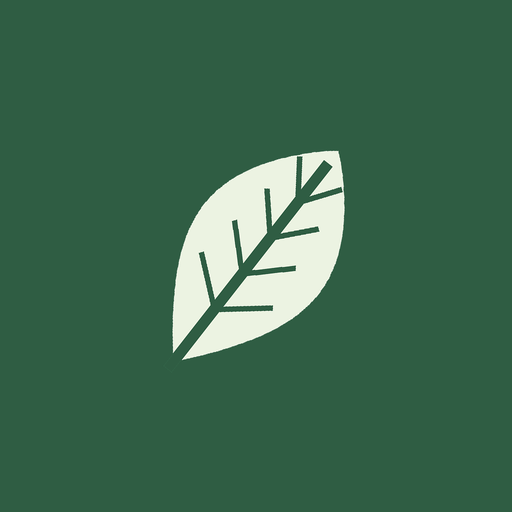
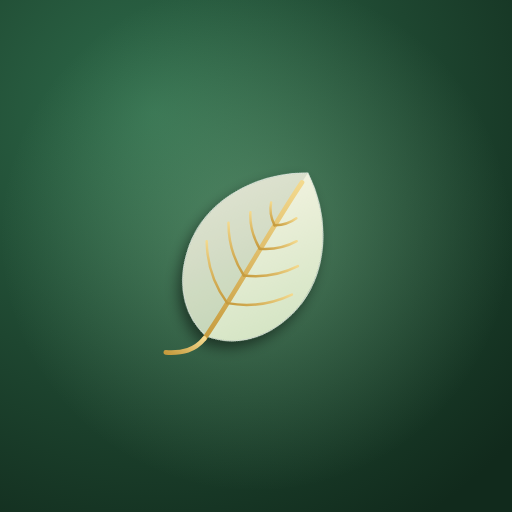
Premium ikonka va ilova ochilishida 'ikonka chizilishi' animatsiyasi
Claude-Session: https://claude.ai/code/session_01Hn56jryXW9QDXa4QCCKqRz

diff --git a/index.html b/index.html
@@ -16,6 +16,66 @@
 <link rel="stylesheet" href="css/app.css">
 </head>
 <body>
+<!--SPLASH-->
+<div id="splash" aria-hidden="true">
+<style>
+#splash{position:fixed;inset:0;z-index:9999;display:flex;flex-direction:column;align-items:center;justify-content:center;gap:26px;background:#1E4630;color:#F5F1E6;transition:opacity .55s ease,visibility .55s;overflow:hidden}
+#splash.hide{opacity:0;visibility:hidden}
+#splash::before{content:"";position:absolute;inset:-20%;background:radial-gradient(circle at 50% 42%,rgba(159,214,168,.30),rgba(159,214,168,0) 55%);opacity:0;animation:sGlow 1.6s ease .15s forwards}
+#splash svg{width:min(54vw,230px);height:auto;position:relative;overflow:visible}
+#splash .tile{transform-origin:50% 50%;opacity:0;animation:sTile .7s cubic-bezier(.2,.8,.2,1) forwards}
+#splash .outline{fill:none;stroke:#EAF3DD;stroke-width:6;stroke-linecap:round;stroke-linejoin:round;stroke-dasharray:1;stroke-dashoffset:1;animation:sDraw 1.05s cubic-bezier(.5,0,.2,1) .35s forwards}
+#splash .fill{opacity:0;animation:sFade .7s ease 1.15s forwards}
+#splash .leaf{transform-origin:512px 700px;animation:sGrow 1.5s cubic-bezier(.2,.8,.2,1) .3s both}
+#splash .gold{fill:none;stroke:url(#gds);stroke-linecap:round;stroke-dasharray:1;stroke-dashoffset:1}
+#splash .mid{stroke-width:15;animation:sDraw .8s ease 1.2s forwards}
+#splash .vein{stroke-width:8;stroke-dasharray:1;stroke-dashoffset:1;animation:sDraw .55s ease calc(1.55s + var(--i)*.07s) forwards}
+#splash .shine{opacity:0;animation:sShine 1.1s ease 2.0s}
+#splash .word{text-align:center;opacity:0;transform:translateY(10px);animation:sUp .7s cubic-bezier(.2,.8,.2,1) 1.9s forwards}
+#splash .word b{display:block;font:600 clamp(1.5rem,7vw,2rem)/1.1 Fraunces,Georgia,serif;letter-spacing:.01em}
+#splash .word span{display:block;margin-top:8px;font:500 .72rem/1 Inter,system-ui,sans-serif;letter-spacing:.22em;text-transform:uppercase;color:#A9D3AE}
+@keyframes sTile{from{opacity:0;transform:scale(.86)}to{opacity:1;transform:scale(1)}}
+@keyframes sDraw{to{stroke-dashoffset:0}}
+@keyframes sFade{to{opacity:1}}
+@keyframes sGrow{from{transform:scale(.82) rotate(-6deg)}to{transform:scale(1) rotate(0)}}
+@keyframes sGlow{to{opacity:1}}
+@keyframes sUp{to{opacity:1;transform:none}}
+@keyframes sShine{0%{opacity:0;transform:translateX(-120px)}40%{opacity:.55}100%{opacity:0;transform:translateX(160px)}}
+@media (prefers-reduced-motion:reduce){#splash *,#splash::before{animation-duration:.01s!important;animation-delay:0s!important}}
+</style>
+<svg viewBox="0 0 1024 1024" role="img">
+<defs>
+<radialGradient id="bgs" cx="30%" cy="22%" r="95%"><stop offset="0" stop-color="#2E6B4A"/><stop offset=".55" stop-color="#1E4630"/><stop offset="1" stop-color="#112A1C"/></radialGradient>
+<radialGradient id="glows" cx="50%" cy="46%" r="50%"><stop offset="0" stop-color="#9FD6A8" stop-opacity=".34"/><stop offset="1" stop-color="#9FD6A8" stop-opacity="0"/></radialGradient>
+<linearGradient id="lfs" x1="0" y1="0" x2="1" y2="1"><stop offset="0" stop-color="#FBF7E8"/><stop offset="1" stop-color="#CFE2BF"/></linearGradient>
+<linearGradient id="gds" x1="0" y1="1" x2="0" y2="0"><stop offset="0" stop-color="#C69B3E"/><stop offset="1" stop-color="#F3D98E"/></linearGradient>
+<filter id="shs" x="-30%" y="-30%" width="160%" height="170%"><feGaussianBlur in="SourceAlpha" stdDeviation="22"/><feOffset dy="26"/><feComponentTransfer><feFuncA type="linear" slope=".5"/></feComponentTransfer><feMerge><feMergeNode/><feMergeNode in="SourceGraphic"/></feMerge></filter>
+</defs>
+<clipPath id="clipL"><path d="M512 196 C668 292 752 466 706 622 C674 738 594 802 512 816 C430 802 350 738 318 622 C272 466 356 292 512 196 Z"/></clipPath>
+<rect class="tile" x="32" y="32" width="960" height="960" rx="224" fill="url(#bgs)"/>
+<g transform="translate(512 512) scale(.8) rotate(32) translate(-512 -512)" class="leaf-wrap"><g class="leaf">
+<g class="fill"><g filter="url(#shs)"><path d="M512 196 C668 292 752 466 706 622 C674 738 594 802 512 816 C430 802 350 738 318 622 C272 466 356 292 512 196 Z" fill="url(#lfs)"/></g><path d="M512 196 C356 292 272 466 318 622 C350 738 430 802 512 816 C506 640 508 380 512 196 Z" fill="#1E4630" opacity=".10"/></g>
+<path pathLength="1" class="outline" d="M512 196 C668 292 752 466 706 622 C674 738 594 802 512 816 C430 802 350 738 318 622 C272 466 356 292 512 196 Z"/>
+<path pathLength="1" class="gold mid" d="M512 826 C520 680 506 430 512 232"/><path pathLength="1" class="gold mid" d="M512 826 C506 874 478 904 430 930"/>
+<g class="gold-veins"><path pathLength="1" class="gold vein" style="--i:0" d="M514 690 C580 664 636 618 676 556"/><path pathLength="1" class="gold vein" style="--i:1" d="M512 586 C568 560 612 520 644 468"/><path pathLength="1" class="gold vein" style="--i:2" d="M510 486 C548 466 578 438 598 402"/><path pathLength="1" class="gold vein" style="--i:3" d="M510 396 C530 384 548 366 558 340"/><path pathLength="1" class="gold vein" style="--i:4" d="M514 690 C448 664 392 618 352 556"/><path pathLength="1" class="gold vein" style="--i:5" d="M512 586 C456 560 412 520 380 468"/><path pathLength="1" class="gold vein" style="--i:6" d="M510 486 C472 466 442 438 422 402"/><path pathLength="1" class="gold vein" style="--i:7" d="M510 396 C490 384 472 366 462 340"/></g>
+<g clip-path="url(#clipL)"><rect class="shine" x="380" y="150" width="60" height="720" fill="#fff" opacity=".0" transform="skewX(-18)"/></g>
+</g></g>
+</svg>
+<div class="word"><b>Botanika Atlasi</b><span>6-sinf · o‘simlik oilalari</span></div>
+<script>
+(function(){
+  var s=document.getElementById("splash"), seen=false, force=/[?&]splash\b/.test(location.search);
+  try{ seen=sessionStorage.getItem("splash")==="1"; }catch(e){}
+  var standalone=window.IS_APP||(window.matchMedia&&matchMedia("(display-mode: standalone)").matches)||navigator.standalone;
+  if(!(force||(standalone&&!seen))){ s.remove(); return; }
+  try{ sessionStorage.setItem("splash","1"); }catch(e){}
+  function done(){ s.classList.add("hide"); setTimeout(function(){ s.remove(); }, 700); }
+  s.style.pointerEvents="auto"; s.addEventListener("click", done);
+  setTimeout(done, matchMedia("(prefers-reduced-motion: reduce)").matches ? 500 : 3300);
+})();
+</script>
+</div>
+<!--/SPLASH-->
 <section class="hero">
   <svg class="sprig" viewBox="0 0 400 420" aria-hidden="true">
     <g fill="none" stroke="#2F5D43" stroke-width="2.2" stroke-linecap="round">

diff --git a/sw.js b/sw.js
@@ -1,5 +1,5 @@
 // Avtomatik yaratilgan (tools/make-sw.py). Qo'lda o'zgartirmang.
-const VERSION = "02de9e5200", CACHE = "atlas-" + VERSION;
+const VERSION = "1072361cce", CACHE = "atlas-" + VERSION;
 const CORE = [
  "./",
  "css/app.css",
@@ -21,6 +21,7 @@ const CORE = [
  "icons/apple-touch-icon.png",
  "icons/icon-192.png",
  "icons/icon-512.png",
+ "icons/icon.svg",
  "icons/maskable-512.png",
  "index.html",
  "js/app.js",

diff --git a/tools/make-brand.py b/tools/make-brand.py
@@ -1,0 +1,128 @@
+#!/usr/bin/env python3
+"""Ikonka (SVG) va ilova ochilish animatsiyasini (splash) bitta geometriyadan yaratadi.
+Natija: icons/icon.svg, android-app/assets/*.svg, va index.html ichidagi <!--SPLASH--> bloki.
+PNG ga aylantirish: node tools/render-brand.js (Playwright kerak)."""
+import os, re
+R = os.path.dirname(os.path.dirname(os.path.abspath(__file__)))
+
+BG1, BG2, BG3 = "#2E6B4A", "#1E4630", "#112A1C"      # zumrad fon
+CREAM1, CREAM2 = "#FBF7E8", "#CFE2BF"                 # barg
+GOLD1, GOLD2 = "#F3D98E", "#C69B3E"                   # tomirlar
+
+LEAF = "M512 196 C668 292 752 466 706 622 C674 738 594 802 512 816 C430 802 350 738 318 622 C272 466 356 292 512 196 Z"
+LEFT = "M512 196 C356 292 272 466 318 622 C350 738 430 802 512 816 C506 640 508 380 512 196 Z"
+MID = "M512 826 C520 680 506 430 512 232"
+VEINS_R = ["M514 690 C580 664 636 618 676 556", "M512 586 C568 560 612 520 644 468", "M510 486 C548 466 578 438 598 402", "M510 396 C530 384 548 366 558 340"]
+VEINS_L = ["M514 690 C448 664 392 618 352 556", "M512 586 C456 560 412 520 380 468", "M510 486 C472 466 442 438 422 402", "M510 396 C490 384 472 366 462 340"]
+STEM = "M512 826 C506 874 478 904 430 930"
+TILT = 32
+
+
+def defs(uid):
+    return f'''<defs>
+<radialGradient id="bg{uid}" cx="30%" cy="22%" r="95%"><stop offset="0" stop-color="{BG1}"/><stop offset=".55" stop-color="{BG2}"/><stop offset="1" stop-color="{BG3}"/></radialGradient>
+<radialGradient id="glow{uid}" cx="50%" cy="46%" r="50%"><stop offset="0" stop-color="#9FD6A8" stop-opacity=".34"/><stop offset="1" stop-color="#9FD6A8" stop-opacity="0"/></radialGradient>
+<linearGradient id="lf{uid}" x1="0" y1="0" x2="1" y2="1"><stop offset="0" stop-color="{CREAM1}"/><stop offset="1" stop-color="{CREAM2}"/></linearGradient>
+<linearGradient id="gd{uid}" x1="0" y1="1" x2="0" y2="0"><stop offset="0" stop-color="{GOLD2}"/><stop offset="1" stop-color="{GOLD1}"/></linearGradient>
+<filter id="sh{uid}" x="-30%" y="-30%" width="160%" height="170%"><feGaussianBlur in="SourceAlpha" stdDeviation="22"/><feOffset dy="26"/><feComponentTransfer><feFuncA type="linear" slope=".5"/></feComponentTransfer><feMerge><feMergeNode/><feMergeNode in="SourceGraphic"/></feMerge></filter>
+</defs>'''
+
+
+def leaf_group(uid, scale=1.0, shadow=True):
+    veins = "".join(f'<path d="{d}"/>' for d in VEINS_R + VEINS_L)
+    f = f' filter="url(#sh{uid})"' if shadow else ""
+    return f'''<g transform="translate(512 512) scale({scale}) rotate({TILT}) translate(-512 -512)">
+<g{f}><path d="{LEAF}" fill="url(#lf{uid})"/></g>
+<path d="{LEFT}" fill="#1E4630" opacity=".10"/>
+<path d="{LEAF}" fill="none" stroke="#fff" stroke-opacity=".55" stroke-width="3"/>
+<g fill="none" stroke="url(#gd{uid})" stroke-linecap="round"><path d="{MID}" stroke-width="15"/><path d="{STEM}" stroke-width="15"/><g stroke-width="8">{veins}</g></g>
+</g>'''
+
+
+def svg(kind):
+    """kind: full (to'liq ikonka), fg (adaptive oldingi qatlam), bg (adaptive fon)"""
+    u = kind
+    head = f'<svg xmlns="http://www.w3.org/2000/svg" viewBox="0 0 1024 1024" width="1024" height="1024">' + defs(u)
+    if kind == "bg":
+        return head + f'<rect width="1024" height="1024" fill="url(#bg{u})"/><rect width="1024" height="1024" fill="url(#glow{u})"/></svg>'
+    if kind == "fg":
+        return head + leaf_group(u, 0.62) + "</svg>"
+    return head + f'<rect width="1024" height="1024" fill="url(#bg{u})"/><rect width="1024" height="1024" fill="url(#glow{u})"/>' + leaf_group(u, 0.8) + "</svg>"
+
+
+def splash_block():
+    uid = "s"
+    veins = "".join(f'<path pathLength="1" class="vein" style="--i:{i}" d="{d}"/>' for i, d in enumerate(VEINS_R + VEINS_L))
+    return f'''<!--SPLASH-->
+<div id="splash" aria-hidden="true">
+<style>
+#splash{{position:fixed;inset:0;z-index:9999;display:flex;flex-direction:column;align-items:center;justify-content:center;gap:26px;background:{BG2};color:#F5F1E6;transition:opacity .55s ease,visibility .55s;overflow:hidden}}
+#splash.hide{{opacity:0;visibility:hidden}}
+#splash::before{{content:"";position:absolute;inset:-20%;background:radial-gradient(circle at 50% 42%,rgba(159,214,168,.30),rgba(159,214,168,0) 55%);opacity:0;animation:sGlow 1.6s ease .15s forwards}}
+#splash svg{{width:min(54vw,230px);height:auto;position:relative;overflow:visible}}
+#splash .tile{{transform-origin:50% 50%;opacity:0;animation:sTile .7s cubic-bezier(.2,.8,.2,1) forwards}}
+#splash .outline{{fill:none;stroke:#EAF3DD;stroke-width:6;stroke-linecap:round;stroke-linejoin:round;stroke-dasharray:1;stroke-dashoffset:1;animation:sDraw 1.05s cubic-bezier(.5,0,.2,1) .35s forwards}}
+#splash .fill{{opacity:0;animation:sFade .7s ease 1.15s forwards}}
+#splash .leaf{{transform-origin:512px 700px;animation:sGrow 1.5s cubic-bezier(.2,.8,.2,1) .3s both}}
+#splash .gold{{fill:none;stroke:url(#gd{uid});stroke-linecap:round;stroke-dasharray:1;stroke-dashoffset:1}}
+#splash .mid{{stroke-width:15;animation:sDraw .8s ease 1.2s forwards}}
+#splash .vein{{stroke-width:8;stroke-dasharray:1;stroke-dashoffset:1;animation:sDraw .55s ease calc(1.55s + var(--i)*.07s) forwards}}
+#splash .shine{{opacity:0;animation:sShine 1.1s ease 2.0s}}
+#splash .word{{text-align:center;opacity:0;transform:translateY(10px);animation:sUp .7s cubic-bezier(.2,.8,.2,1) 1.9s forwards}}
+#splash .word b{{display:block;font:600 clamp(1.5rem,7vw,2rem)/1.1 Fraunces,Georgia,serif;letter-spacing:.01em}}
+#splash .word span{{display:block;margin-top:8px;font:500 .72rem/1 Inter,system-ui,sans-serif;letter-spacing:.22em;text-transform:uppercase;color:#A9D3AE}}
+@keyframes sTile{{from{{opacity:0;transform:scale(.86)}}to{{opacity:1;transform:scale(1)}}}}
+@keyframes sDraw{{to{{stroke-dashoffset:0}}}}
+@keyframes sFade{{to{{opacity:1}}}}
+@keyframes sGrow{{from{{transform:scale(.82) rotate(-6deg)}}to{{transform:scale(1) rotate(0)}}}}
+@keyframes sGlow{{to{{opacity:1}}}}
+@keyframes sUp{{to{{opacity:1;transform:none}}}}
+@keyframes sShine{{0%{{opacity:0;transform:translateX(-120px)}}40%{{opacity:.55}}100%{{opacity:0;transform:translateX(160px)}}}}
+@media (prefers-reduced-motion:reduce){{#splash *,#splash::before{{animation-duration:.01s!important;animation-delay:0s!important}}}}
+</style>
+<svg viewBox="0 0 1024 1024" role="img">
+{defs(uid)}
+<clipPath id="clipL"><path d="{LEAF}"/></clipPath>
+<rect class="tile" x="32" y="32" width="960" height="960" rx="224" fill="url(#bg{uid})"/>
+<g transform="translate(512 512) scale(.8) rotate({TILT}) translate(-512 -512)" class="leaf-wrap"><g class="leaf">
+<g class="fill"><g filter="url(#sh{uid})"><path d="{LEAF}" fill="url(#lf{uid})"/></g><path d="{LEFT}" fill="#1E4630" opacity=".10"/></g>
+<path pathLength="1" class="outline" d="{LEAF}"/>
+<path pathLength="1" class="gold mid" d="{MID}"/><path pathLength="1" class="gold mid" d="{STEM}"/>
+<g class="gold-veins">{veins.replace('class="vein"','class="gold vein"')}</g>
+<g clip-path="url(#clipL)"><rect class="shine" x="380" y="150" width="60" height="720" fill="#fff" opacity=".0" transform="skewX(-18)"/></g>
+</g></g>
+</svg>
+<div class="word"><b>Botanika Atlasi</b><span>6-sinf · o‘simlik oilalari</span></div>
+<script>
+(function(){{
+  var s=document.getElementById("splash"), seen=false, force=/[?&]splash\\b/.test(location.search);
+  try{{ seen=sessionStorage.getItem("splash")==="1"; }}catch(e){{}}
+  var standalone=window.IS_APP||(window.matchMedia&&matchMedia("(display-mode: standalone)").matches)||navigator.standalone;
+  if(!(force||(standalone&&!seen))){{ s.remove(); return; }}
+  try{{ sessionStorage.setItem("splash","1"); }}catch(e){{}}
+  function done(){{ s.classList.add("hide"); setTimeout(function(){{ s.remove(); }}, 700); }}
+  s.style.pointerEvents="auto"; s.addEventListener("click", done);
+  setTimeout(done, matchMedia("(prefers-reduced-motion: reduce)").matches ? 500 : 3300);
+}})();
+</script>
+</div>
+<!--/SPLASH-->'''
+
+
+def main():
+    os.makedirs(f"{R}/android-app/assets", exist_ok=True)
+    open(f"{R}/icons/icon.svg", "w", encoding="utf8").write(svg("full"))
+    for k in ("full", "fg", "bg"):
+        open(f"{R}/android-app/assets/icon-{k}.svg", "w", encoding="utf8").write(svg(k))
+    p = f"{R}/index.html"
+    h = open(p, encoding="utf8").read()
+    blk = splash_block()
+    if "<!--SPLASH-->" in h:
+        h = re.sub(r"<!--SPLASH-->.*?<!--/SPLASH-->", lambda m: blk, h, flags=re.S)
+    else:
+        h = h.replace("<body>", "<body>\n" + blk, 1)
+    open(p, "w", encoding="utf8").write(h)
+    print("brend fayllari yaratildi")
+
+
+main()
